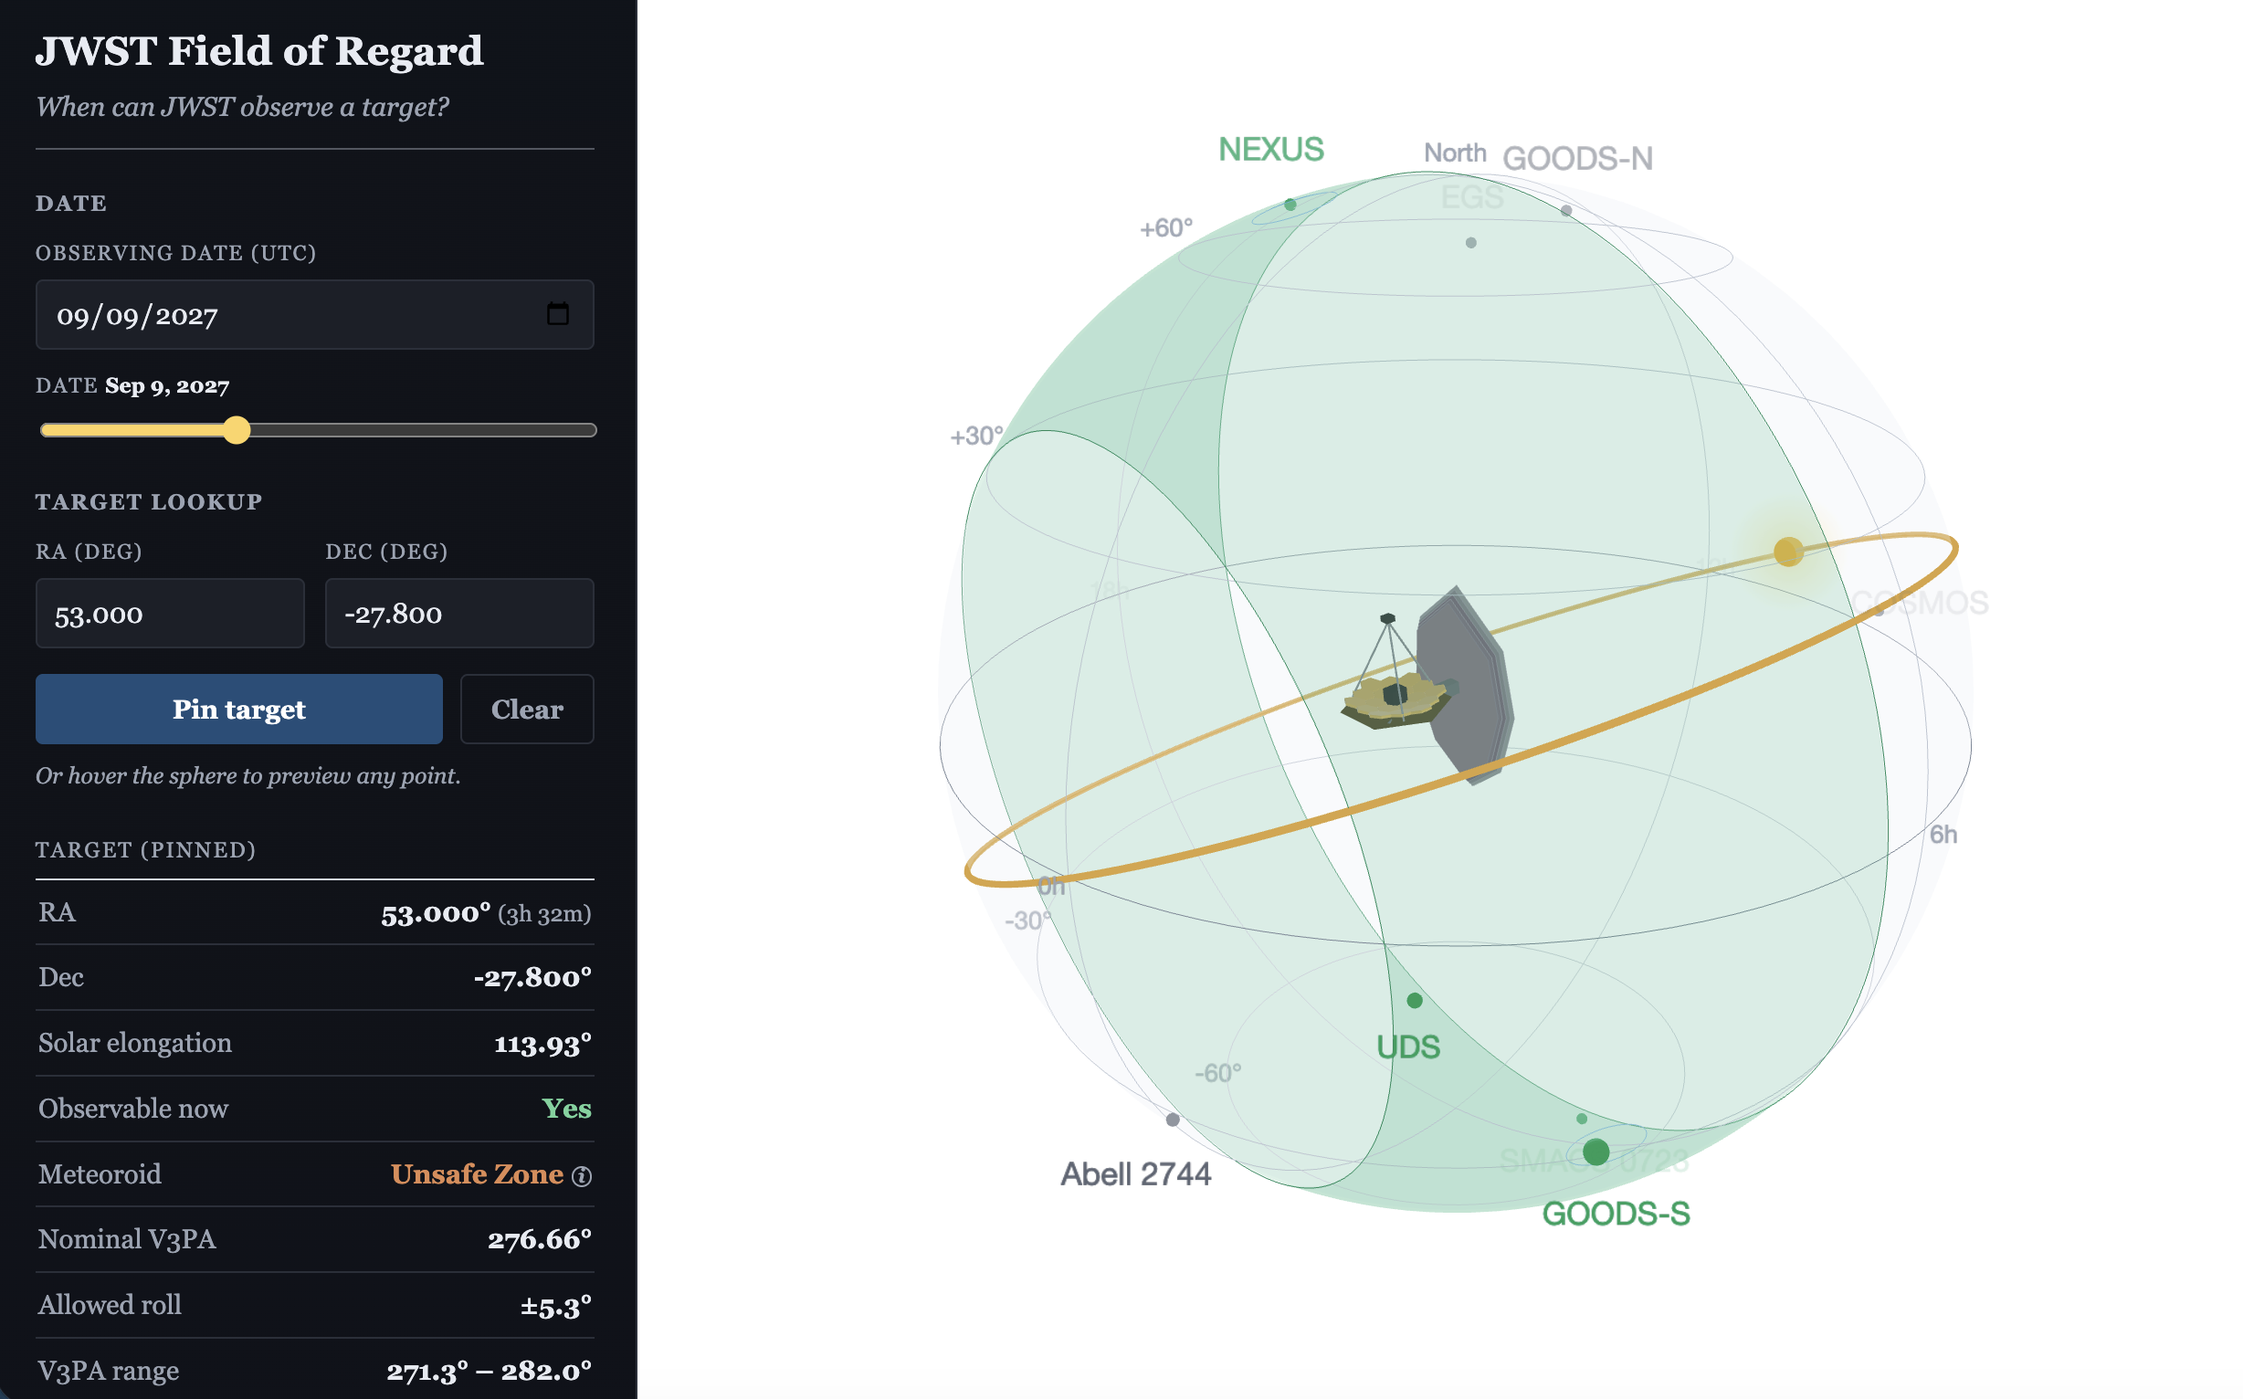
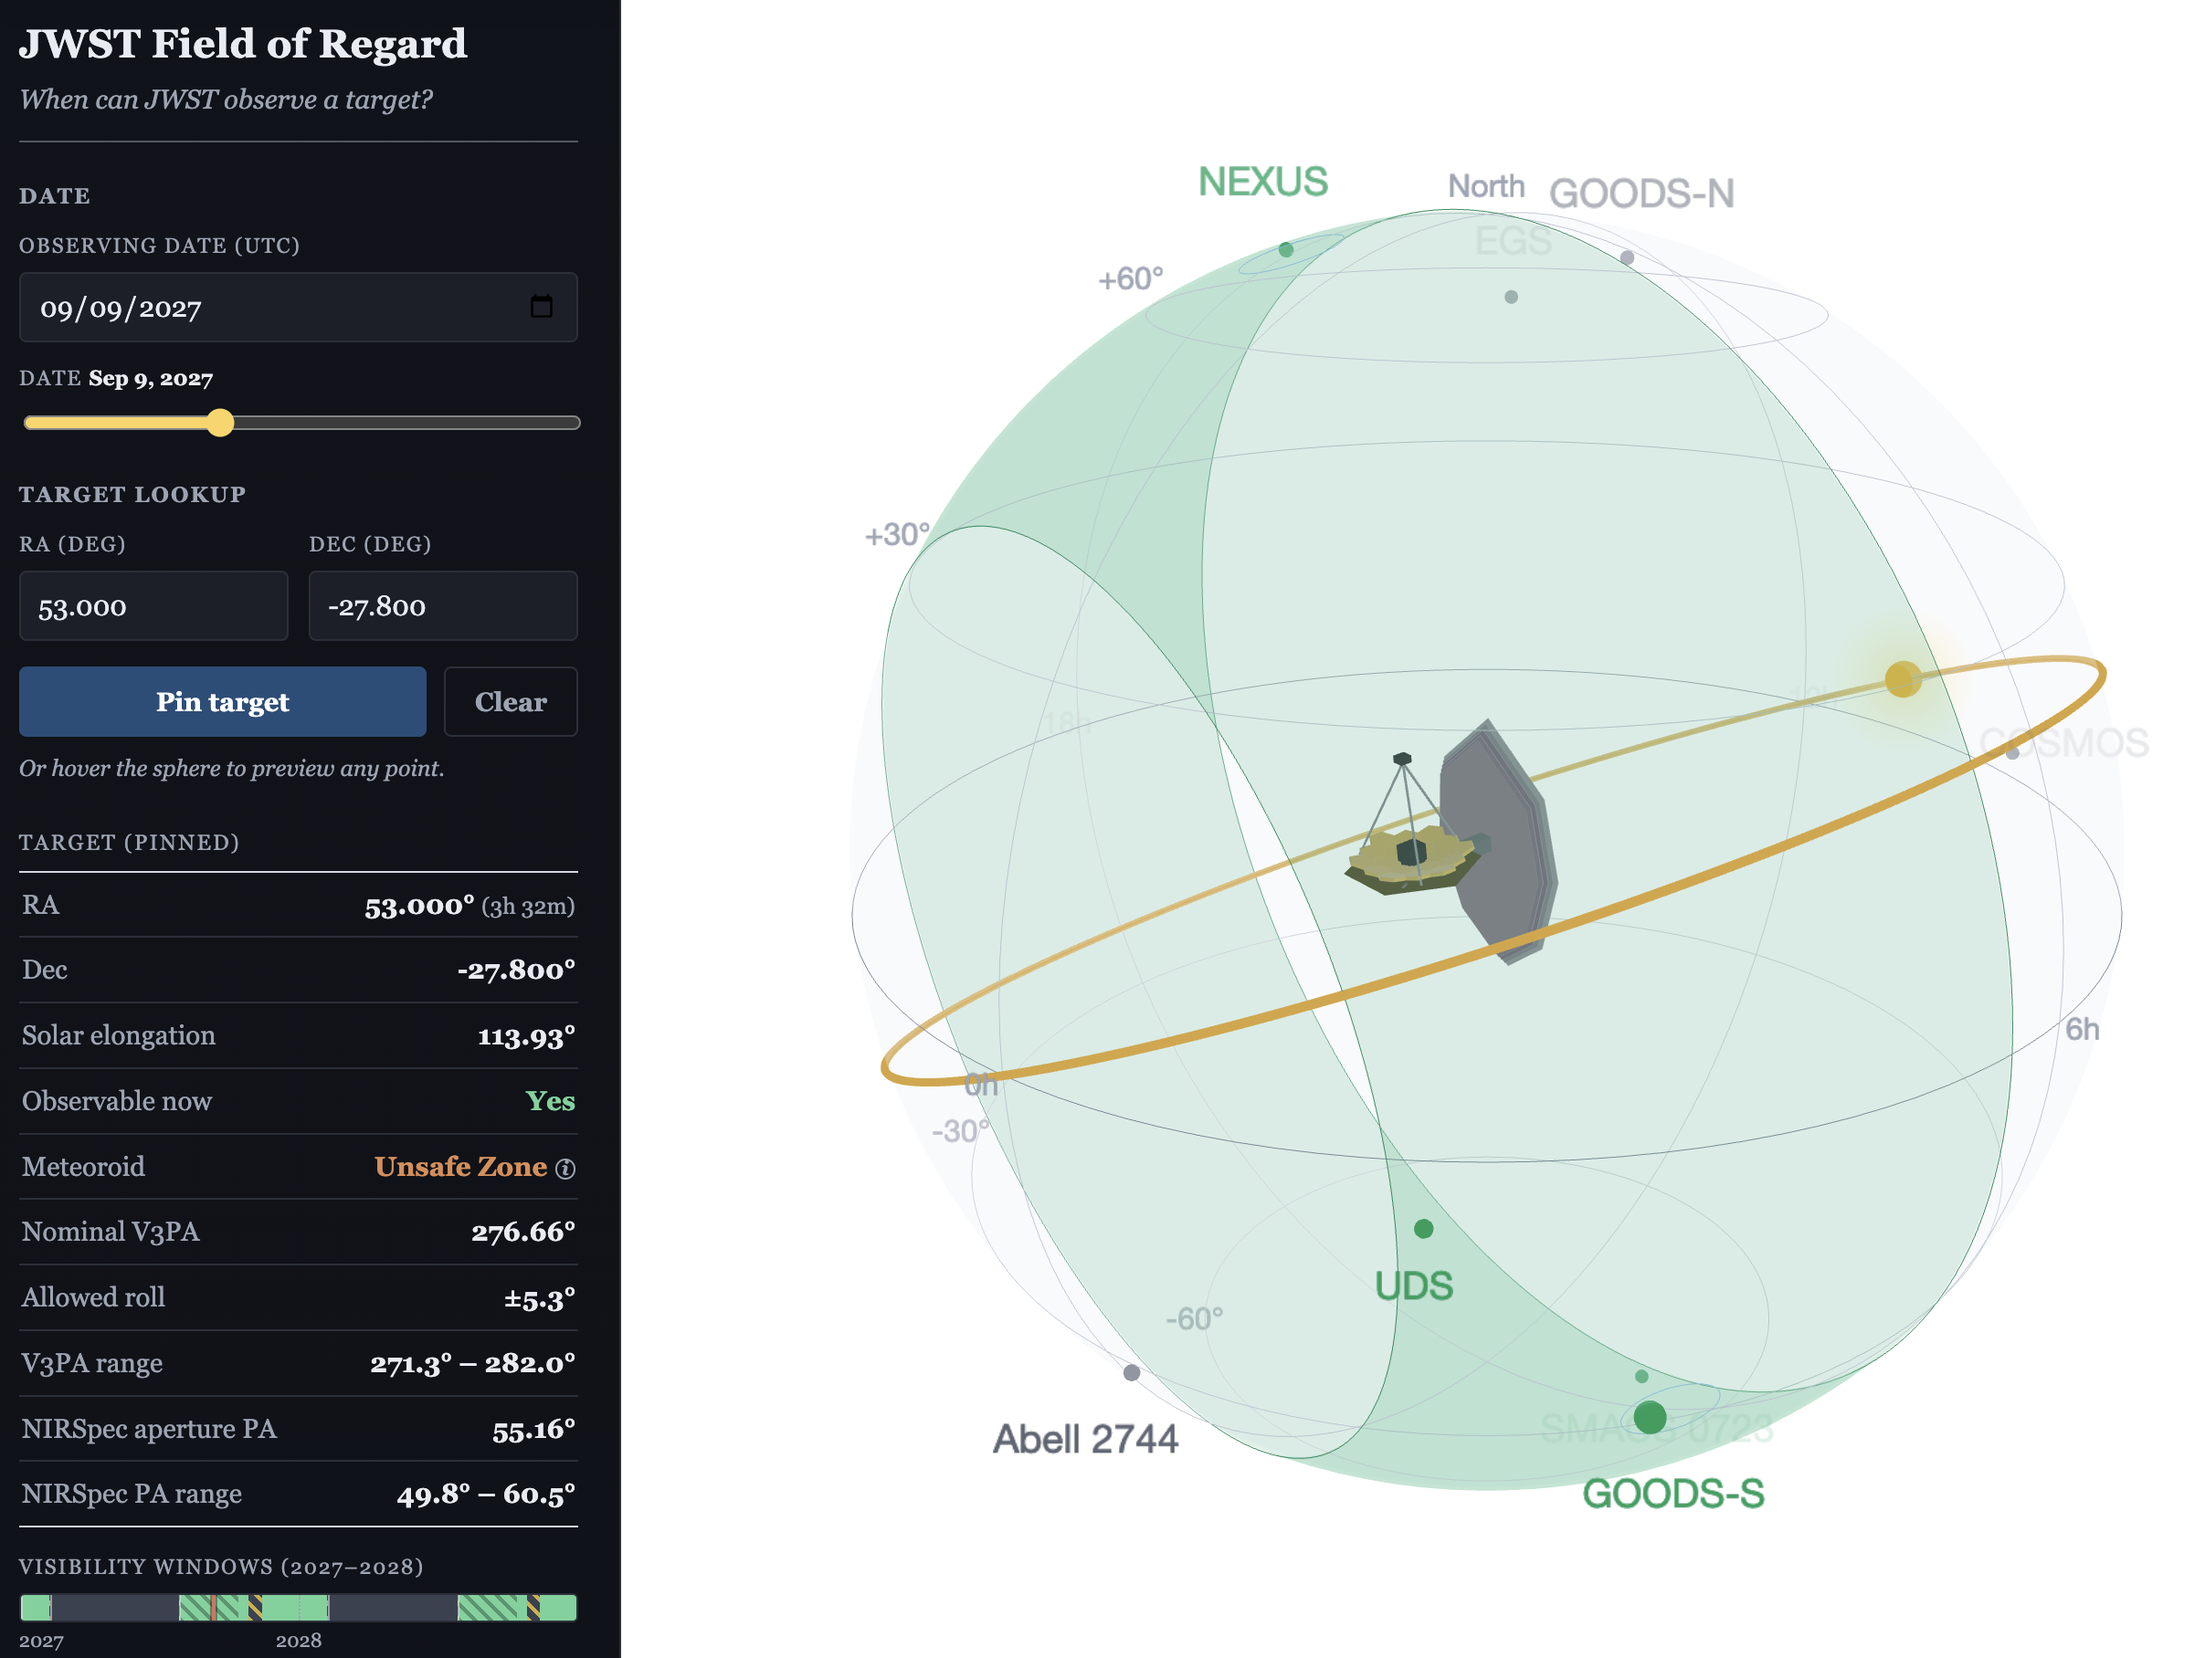
updates

diff --git a/software.md b/software.md
@@ -60,7 +60,7 @@ Planning a JWST program means knowing when a target is visible and what position
 {% include figure
    image_path="/assets/fig/software/jwst-schedulability.webp"
    alt="JWST field of regard visualization"
-   caption="The field of regard on 2027 Jan 1, with a target pinned in GOODS-S. The side panel reports the solar elongation, the nominal V3 position angle and allowed roll, the NIRSpec aperture position angle, and the visibility windows over the next two years." %}
+   caption="The field of regard on 2027 Sep 9, with a target pinned in GOODS-S. The side panel reports the solar elongation, the nominal V3 position angle and allowed roll, the NIRSpec aperture position angle, and the visibility windows over the next two years." %}
 
 </div>
 </div>
